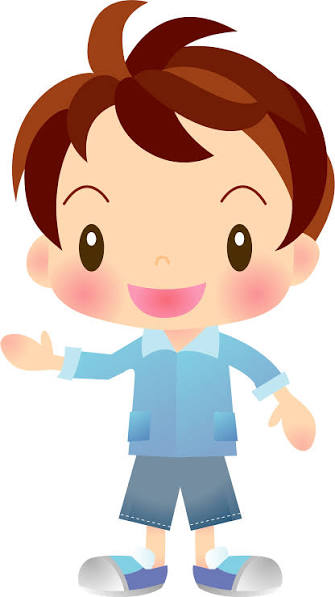
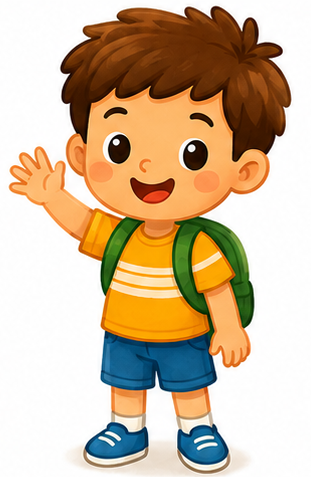
commit 4

diff --git a/src/App.jsx b/src/App.jsx
@@ -1,33 +1,19 @@
 import { useState } from "react";
-import reactLogo from "./assets/react.svg";
-import viteLogo from "./assets/vite.svg";
-import heroImg from "./assets/hero.png";
 import childImg from "./assets/child.png";
-import bookImg from "./assets/book.jpg";
-import familyImg from "./assets/family.jpg";
-import heartImg from "./assets/heart.jpg";
-import sunGlassesImg from "./assets/sunglasses.jpg";
+import bookImg from "./assets/book.png";
+import familyImg from "./assets/family.png";
+import heartImg from "./assets/heart.png";
+import funImg from "./assets/fun.png";
 import "./App.css";
 
+const question_margin_left = "30px";
+const question_margin_top = "10px";
+const question_margin_bottom = "5px";
+const title_margin_left = "330px";
+const small_box_height = "30px";
+const large_box_height = "100px";
+
 function App() {
-  const [count, setCount] = useState(0);
-  const input_box_width = "800px";
-  const question_margin_top = "10px";
-  const question_margin_bottom = "5px";
-  const question_margin_left = "30px";
-  const title_margin_left = "330px";
-
-  const about_questions = [
-    "1. What does your child like to be called?",
-    "2. What are their favorite activities?",
-    "3. What makes them smile?",
-  ];
-
-  const learning_questions = [
-    "1. What are your hopes for your child this year?",
-    "2. Are there any learning strengths you'd like me to know about?",
-  ];
-
   const family_questions = [
     "1. Preferred method of communication",
     "2. Best time to contact you",
@@ -41,84 +27,122 @@ function App() {
     "2. Is there anything you'd like me to know so I can better support them?",
   ];
   const fun_questions = [
-    "1. Does your child have any worries about starting school?",
-    "2. Is there anything you'd like me to know so I can better support them?",
-  ];
-
-  const all_questions = [
-    { title: "About", image: childImg, questions: about_questions },
-    {
-      title: "Learning",
-      image: bookImg,
-      questions: learning_questions,
-    },
-    {
-      title: "Family",
-      image: familyImg,
-      questions: family_questions,
-    },
-    {
-      title: "Support",
-      image: heartImg,
-      questions: support_questions,
-    },
-    {
-      title: "Just For Fun",
-      image: sunGlassesImg,
-      questions: fun_questions,
-    },
+    "1. Favorite book?",
+    "2. Favorite animal?",
+    "3. Favorite snack?",
+    "4. Dream job?",
+    "5. Anything else you'd like to share!",
   ];
 
   return (
     <>
       <h1>Hello Parent</h1>
-      <div>
-        {all_questions.map((section) => (
-          <>
-            <div
-              style={{
-                display: "flex",
-                justifyContent: "left",
-                marginLeft: title_margin_left,
-              }}
-            >
-              <h2 style={{ marginTop: "30px" }}>{section.title}</h2>
-            </div>
+      <AboutSection />
+      <LearningSection />
+    </>
+  );
+}
 
-            <div style={{ display: "flex", width: "100%" }}>
-              <img
-                src={section.image}
-                className="base"
-                width="200"
-                height="250"
-                alt=""
-              />
-              <div className="questions" style={{ flex: 1 }}>
-                {section.questions.map((question) => (
-                  <>
-                    {" "}
-                    <p
-                      style={{
-                        marginTop: question_margin_top,
-                        marginBottom: question_margin_bottom,
-                        marginLeft: question_margin_left,
-                      }}
-                    >
-                      {question}
-                    </p>
-                    <input
-                      style={{
-                        width: "90%",
-                        marginLeft: question_margin_left,
-                      }}
-                      text
-                    ></input>
-                  </>
-                ))}
-              </div>
-            </div>
-          </>
-        ))}
+function AboutSection() {
+  const about_questions = [
+    "1. What does your child like to be called?",
+    "2. What are their favorite activities?",
+    "3. What makes them smile?",
+  ];
+  return (
+    <>
+      <div
+        style={{
+          display: "flex",
+          justifyContent: "left",
+          marginLeft: title_margin_left,
+        }}
+      >
+        <h2 style={{ marginTop: "30px" }}>About</h2>
+      </div>
+
+      <div style={{ display: "flex", width: "100%" }}>
+        <img src={childImg} width="200" height="250" alt="" />
+        <div className="questions" style={{ flex: 1 }}>
+          {about_questions.map((question) => (
+            <>
+              {" "}
+              <p
+                style={{
+                  marginTop: question_margin_top,
+                  marginBottom: question_margin_bottom,
+                  marginLeft: question_margin_left,
+                }}
+              >
+                {question}
+              </p>
+              <input
+                style={{
+                  width: "90%",
+                  marginLeft: question_margin_left,
+                  borderRadius: "25px",
+                  height: "30px",
+                  fontSize: "20px",
+                  paddingLeft: "10px",
+                  boxShadow: "none",
+                }}
+                text
+              ></input>
+            </>
+          ))}
+        </div>
+      </div>
+    </>
+  );
+}
+
+function LearningSection() {
+  const learning_questions = [
+    "1. What are your hopes for your child this year?",
+    "2. Are there any learning strengths you'd like me to know about?",
+  ];
+  return (
+    <>
+      <div
+        style={{
+          display: "flex",
+          justifyContent: "left",
+          marginLeft: title_margin_left,
+        }}
+      >
+        <h2 style={{ marginTop: "30px" }}>About</h2>
+      </div>
+
+      <div style={{ display: "flex", width: "100%" }}>
+        <img src={childImg} width="200" height="250" alt="" />
+        <div className="questions" style={{ flex: 1 }}>
+          {learning_questions.map((question) => (
+            <>
+              {" "}
+              <p
+                style={{
+                  marginTop: question_margin_top,
+                  marginBottom: question_margin_bottom,
+                  marginLeft: question_margin_left,
+                }}
+              >
+                {question}
+              </p>
+              <input
+                style={{
+                  width: "90%",
+                  marginLeft: question_margin_left,
+                  borderRadius: "25px",
+                  height: "30px",
+                  fontSize: "20px",
+                  paddingLeft: "10px",
+                  boxShadow: "none",
+                }}
+                text
+              ></input>
+            </>
+          ))}
+        </div>
       </div>
     </>
   );